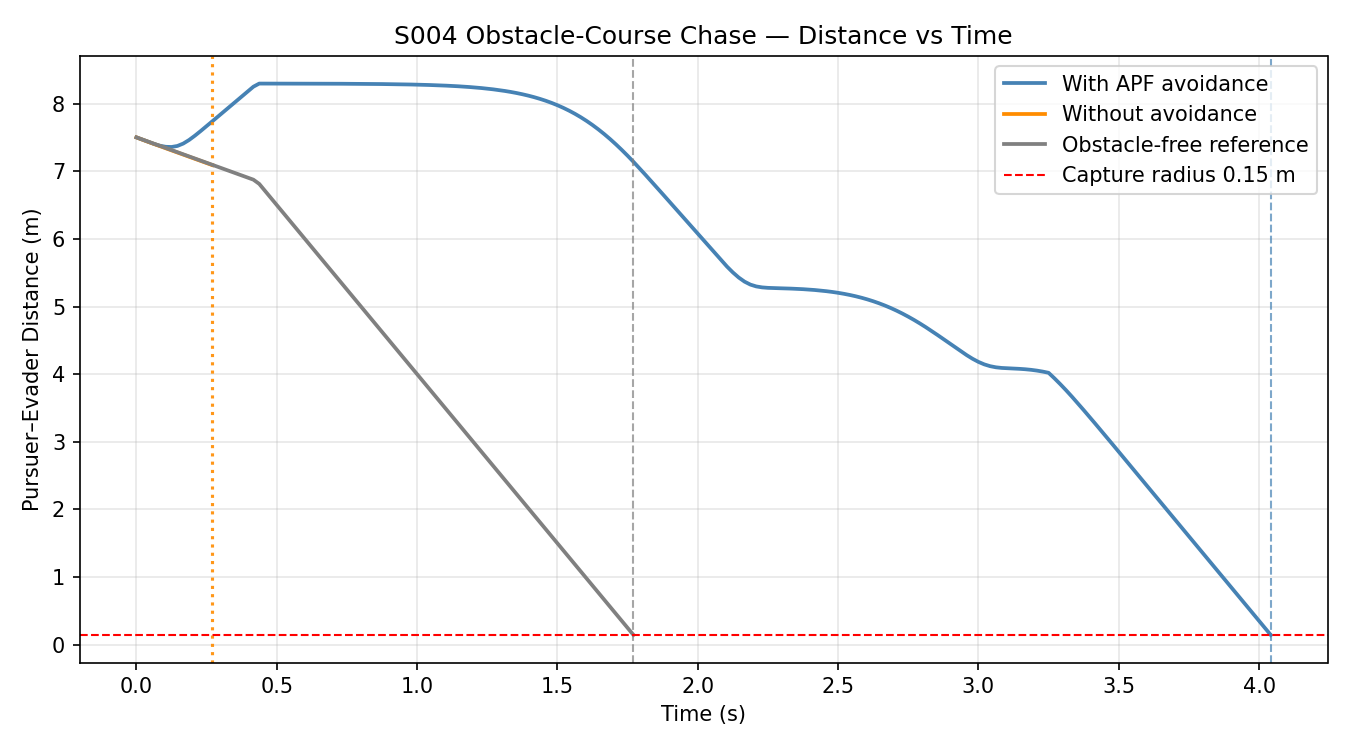
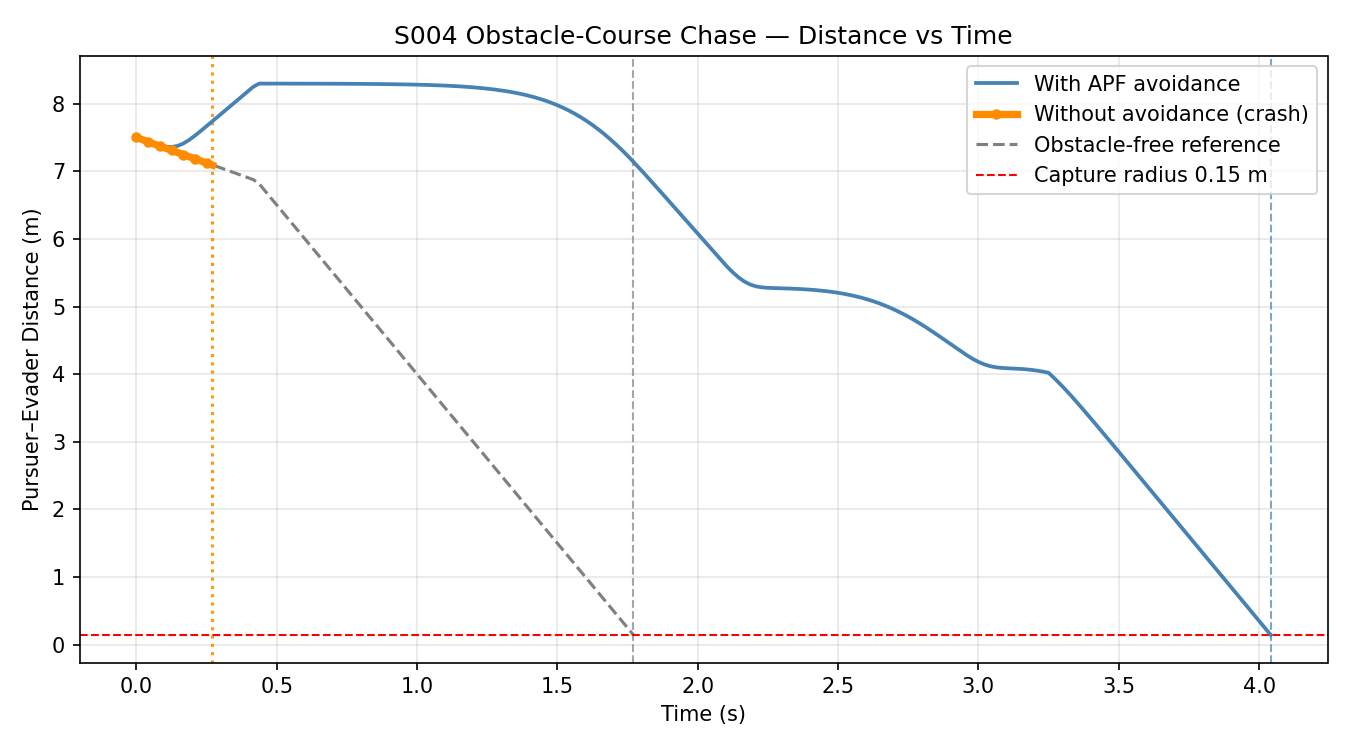
Fix S004 Obstacle-Course Chase: address review follow-ups
- README no longer overstates obstacle 2: script now prints per-obstacle peak
  repulsion / active time and the dominant obstacle over time; obstacle 2 is
  only grazed (rho = 1.13 m vs rho0 = 1.2 m, peak 0.15 m/s) and the second
  repulsion peak comes from obstacle 3 (2.08-2.98 s)
- distance_time.png: no-avoidance curve (identical to the reference until the
  crash) now drawn thick with markers on top; reference dashed underneath
- Re-ran twice; capture/crash/reference results unchanged

Changed region(s): [[0.7156, 0.092, 0.9644, 0.2453], [0.0933, 0.184, 0.1867, 0.2453]]

diff --git a/src/01_pursuit_evasion/s004_obstacle_chase.py b/src/01_pursuit_evasion/s004_obstacle_chase.py
@@ -249,15 +249,20 @@ def plot_trajectories_3d(results, out_dir):
 
 
 def plot_distance_time(results, out_dir, ref=None):
-    labels = ['With APF avoidance', 'Without avoidance']
+    # The no-avoidance curve coincides with the reference until its crash, so it
+    # is drawn thicker, with markers, on top; the reference is dashed underneath.
+    labels = ['With APF avoidance', 'Without avoidance (crash)']
     colors = ['steelblue', 'darkorange']
+    styles = [dict(linewidth=1.8, zorder=3),
+              dict(linewidth=3.5, marker='o', markersize=4, markevery=2, zorder=4)]
     if ref is not None:
         results = list(results) + [ref]
         labels  = labels + ['Obstacle-free reference']
         colors  = colors + ['gray']
+        styles  = styles + [dict(linewidth=1.5, linestyle='--', zorder=2)]
 
     fig, ax = plt.subplots(figsize=(9, 5))
-    for label, color, res in zip(labels, colors, results):
+    for label, color, style, res in zip(labels, colors, styles, results):
         p_traj, e_traj = res[0], res[1]
         captured, cap_t = res[2], res[3]
         p_crashed, p_crash_t = res[4], res[5]
@@ -265,7 +270,7 @@ def plot_distance_time(results, out_dir, ref=None):
         n     = min(len(p_traj), len(e_traj))
         dists = np.linalg.norm(p_traj[:n] - e_traj[:n], axis=1)
         times = np.arange(n) * DT
-        ax.plot(times, dists, color=color, linewidth=1.8, label=label)
+        ax.plot(times, dists, color=color, label=label, **style)
 
         if captured:
             ax.axvline(cap_t, color=color, linestyle='--', linewidth=1, alpha=0.7)
@@ -410,6 +415,25 @@ if __name__ == '__main__':
         flag = 'inside rho0' if d_p < RHO0 else 'outside rho0'
         print(f'  Obstacle {i}: closest surface distance pursuer {d_p:.2f} m '
               f'({flag}), evader {d_e:.2f} m')
+    # Per-obstacle repulsion along the APF pursuer path (positions before each step)
+    per_obs = np.array([[np.linalg.norm(repulsion_velocity(p, OBSTACLES[i:i + 1]))
+                         for i in range(len(OBSTACLES))]
+                        for p in p_traj[:len(rep_log)]])
+    for i in range(len(OBSTACLES)):
+        act = per_obs[:, i] > 0
+        print(f'  Obstacle {i + 1}: peak repulsion {per_obs[:, i].max():.2f} m/s, '
+              f'active {act.sum() * DT:.2f} s')
+    dom = np.argmax(per_obs, axis=1)
+    segs, start = [], None
+    for k in range(len(rep_log) + 1):
+        cur = dom[k] if k < len(rep_log) and rep_log[k] > 0 else -1
+        prev = (dom[k - 1] if rep_log[k - 1] > 0 else -1) if k > 0 else -1
+        if cur != prev:
+            if prev >= 0:
+                segs.append((prev, start, k))
+            start = k
+    print('APF case: dominant obstacle by time: '
+          + ', '.join(f'#{o + 1} {a * DT:.2f}-{b * DT:.2f} s' for o, a, b in segs))
     active = rep_log > 0
     print(f'APF case: repulsion active {active.sum()} / {len(rep_log)} steps '
           f'({100 * active.mean():.0f}% of the chase), '

diff --git a/outputs/01_pursuit_evasion/s004_obstacle_chase/README.md b/outputs/01_pursuit_evasion/s004_obstacle_chase/README.md
@@ -99,12 +99,14 @@ python src/01_pursuit_evasion/s004_obstacle_chase.py
 
 APF case diagnostics (printed by the script):
 
-| Obstacle | Closest surface distance — pursuer | Closest surface distance — evader |
-|----------|-----------------------------------|-----------------------------------|
-| 1 | 0.70 m (inside $\rho_0$) | 4.90 m |
-| 2 | 1.13 m (inside $\rho_0$) | 3.48 m |
-| 3 | 0.71 m (inside $\rho_0$) | 2.03 m |
-| 4 | 0.76 m (inside $\rho_0$) | 0.59 m |
+| Obstacle | Closest surface distance — pursuer | Peak repulsion on pursuer | Repulsion active | Closest surface distance — evader |
+|----------|-----------------------------------|---------------------------|------------------|-----------------------------------|
+| 1 | 0.70 m (inside $\rho_0$) | 5.00 m/s | 1.98 s | 4.90 m |
+| 2 | 1.13 m (just inside $\rho_0 = 1.2$ m) | 0.15 m/s | 0.15 s | 3.48 m |
+| 3 | 0.71 m (inside $\rho_0$) | 4.67 m/s | 0.98 s | 2.03 m |
+| 4 | 0.76 m (inside $\rho_0$) | 3.33 m/s | 0.65 s | 0.59 m |
+
+Dominant obstacle (largest single repulsion term) over time: #1 0.04–2.02 s, #3 2.08–2.98 s, #4 2.98–3.56 s.
 
 - Repulsion on the pursuer is active for 166 of 194 steps (86% of the chase); peak $|\mathbf{v}_{rep}|$ = 5.00 m/s
 - Pursuer path length 12.54 m in 4.04 s, a mean speed of 3.10 m/s (vs. 5 m/s max)
@@ -115,20 +117,20 @@ APF case diagnostics (printed by the script):
 **Key Findings**:
 
 - Without obstacle avoidance the pursuer flies straight into obstacle 1 and crashes at $t = 0.27$ s. Pure pursuit points directly at the evader regardless of obstacles.
-- With APF the pursuer comes within $\rho_0$ of **all four** obstacles and captures the evader at $t = 4.04$ s, 2.27 s later than the obstacle-free reference (1.77 s).
+- With APF the pursuer captures the evader at $t = 4.04$ s, 2.27 s later than the obstacle-free reference (1.77 s). Obstacles 1, 3 and 4 shape the path. Obstacle 2 barely matters: the pursuer only grazes the edge of its influence range (1.13 m vs $\rho_0$ = 1.2 m), so it never contributes more than 0.15 m/s of repulsion.
 - **Most of the detour cost is an APF local minimum, not the extra path.** Obstacle 1 sits exactly on the line of sight. The pursuer stalls at about (-3.29, -0.05) m, where repulsion (≈5 m/s, the plateau at 0.25–1.2 s in the repulsion plot) cancels the 5 m/s attraction. It nearly stops there: it is slower than 0.5 m/s for 0.69 s in total, and the distance plot is flat at ≈8.3 m. It escapes only because the evader is slightly off-axis ($y = -0.07$ m when it reaches the wall). That tiny asymmetry slowly rotates the line of sight until the pursuer slides around obstacle 1 on the $-y$ side.
 - The walls matter. The evader reaches the $x = 5$ m wall at 0.44 s and then slides along it into the (5, 3) corner, where it is captured. Without walls (previous version of this scenario) the evader ran out of the course into open space. The pursuer then saw obstacles only during the first ~2.6 s, and the rest of the chase was an open-field tail chase.
-- After escaping the local minimum, the pursuer weaves on the $-y$ side of obstacles 2 and 3 and then passes obstacle 4. This produces the second and third repulsion peaks (~2.0–2.9 s and ~2.9–3.55 s). The final ~0.5 s run into the corner is in free space.
+- After escaping the local minimum, the pursuer passes well clear of obstacle 2 and goes around the $-y$ side of obstacle 3, which produces the second repulsion peak (2.08–2.98 s). It then passes obstacle 4, which produces the third peak (2.98–3.56 s). The final ~0.5 s run into the corner is in free space.
 
 **3D Trajectories** — pursuer (red) and evader (blue) through obstacles (blue spheres); axes span the arena in x/y:
 
 ![3D Trajectories](trajectories_3d.png)
 
-**Distance vs Time** — APF case (blue) with the local-minimum plateau, no-avoidance case ending at the crash (orange dotted line), and the obstacle-free reference (gray):
+**Distance vs Time** — APF case (blue) with the local-minimum plateau; no-avoidance case (thick orange with markers, ending at the crash, orange dotted line), which coincides with the obstacle-free reference (gray dashed) until the crash because both fly the same straight line:
 
 ![Distance vs Time](distance_time.png)
 
-**APF Repulsion Magnitude** — a long saturated plateau at obstacle 1 (local minimum), then the passes around obstacles 2/3 and 4:
+**APF Repulsion Magnitude** — a long saturated plateau at obstacle 1 (local minimum), then the passes around obstacle 3 and obstacle 4:
 
 ![Repulsion Magnitude](repulsion_magnitude.png)
 
